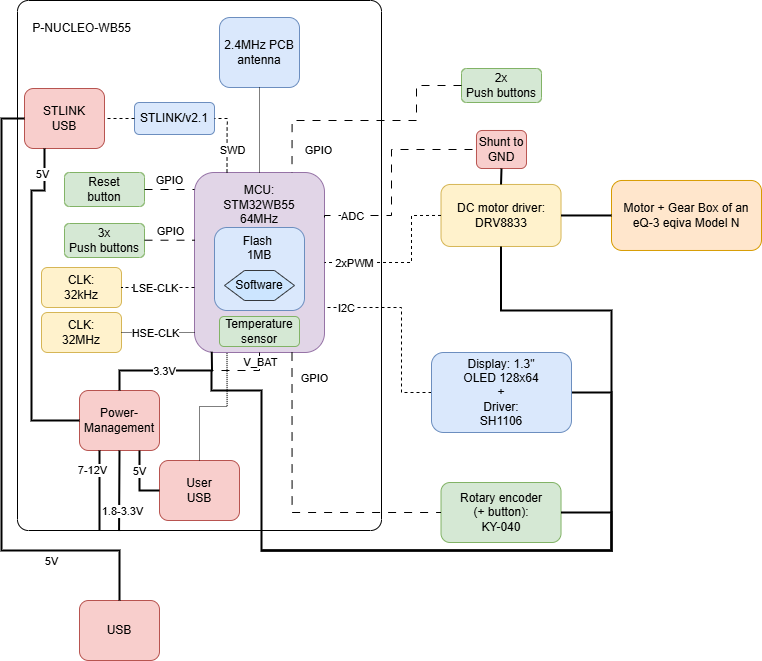
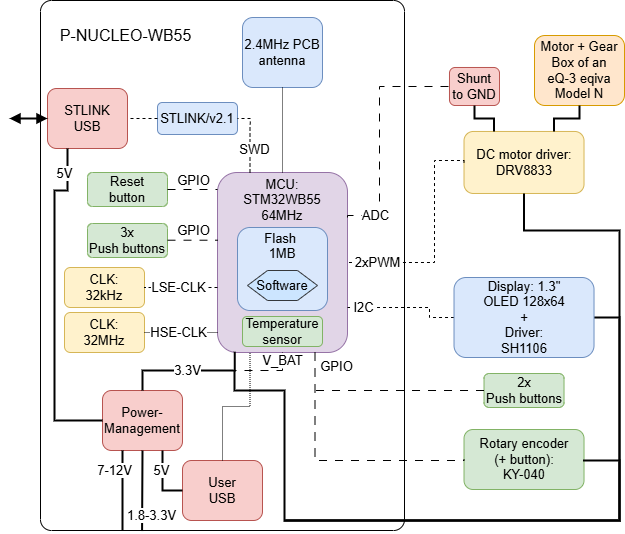
:memo: Add "Requierements" chapter to paper with adapted hardware diagram

diff --git a/software/MP1-Paper - Radiator Thermostat Software/MP1-Paper - Radiator Thermostat Software.tex b/software/MP1-Paper - Radiator Thermostat Software/MP1-Paper - Radiator Thermostat Software.tex
@@ -114,7 +114,23 @@ A key insight from \cite{Potel.1996} is that these abstractions need not all be 
 This incremental adoption is particularly relevant for the embedded context of this work, where the constrained environment and the C programming language favor a minimal yet well-structured architecture. Accordingly, the design presented in this paper deliberately omits the Command, Selection, and Interactor abstractions, retaining only the core Model, View, and Presenter triad as the foundation of its UI architecture.
 
 \section{Requirements}
-Text\dots
+\label{sec:Requirements}
+The software requirements for the thermostat prototype are defined in a separate specification document \cite{Menzel.2026.Spec}. This section provides a condensed overview of the key functional and non-functional requirements that drive the technical design.
+
+The functional requirements specify the integration of hardware peripherals shown in \autoref{fig:mt-rt-sw-dev-hw-block-diagram}. A display, a rotary encoder, three buttons and a motor driver must be connected to the STM32WB55 MCU on its development board. Measurement of temperature, motor current and supply voltage (\texttt{V\_BAT}) must be performed. \cite{Menzel.2026.Spec}
+\begin{figure}[htbp]
+    \centerline{\includegraphics[width=\columnwidth]{../../electronics/diagrams/mt-rt-sw-dev-hw-block-diagram.png}}
+    \caption{Block diagram of the thermostat's prototype hardware for software development and testing \cite{Menzel.2026.Spec}.}
+    \label{fig:mt-rt-sw-dev-hw-block-diagram}
+\end{figure}
+
+The thermostat must support three operational modes: \textit{Auto}, \textit{Manual}, and \textit{Boost}. In Auto mode, the target temperature follows a user-configured daily schedule; in Manual mode, the user sets it directly; and Boost mode provides a temporary override with a countdown display. \cite{Menzel.2026.Spec}
+
+A Configuration on Device (COD) routine is required at startup, guiding the user through date/time setup, daily schedule programming, and a valve adaptation procedure. \cite{Menzel.2026.Spec}
+
+The home display page must directly reflect the current thermostat state (e.g, current time, battery level, target temperature etc.). A menu provides access to schedule changes, temperature offset configuration, and factory reset. All user settings must persist in non-volatile memory across power cycles. \cite{Menzel.2026.Spec}
+
+The non-functional requirements mandate a modular architecture with hardware abstraction layers to allow easy replacement of individual hardware components (e.g., display, motor driver, temperature sensor) with minimal code changes. The UI must provide contextual button hints on every page, indicating the function assigned to each physical button. \cite{Menzel.2026.Spec}
 
 \section{Technical Design}
 Text\dots
